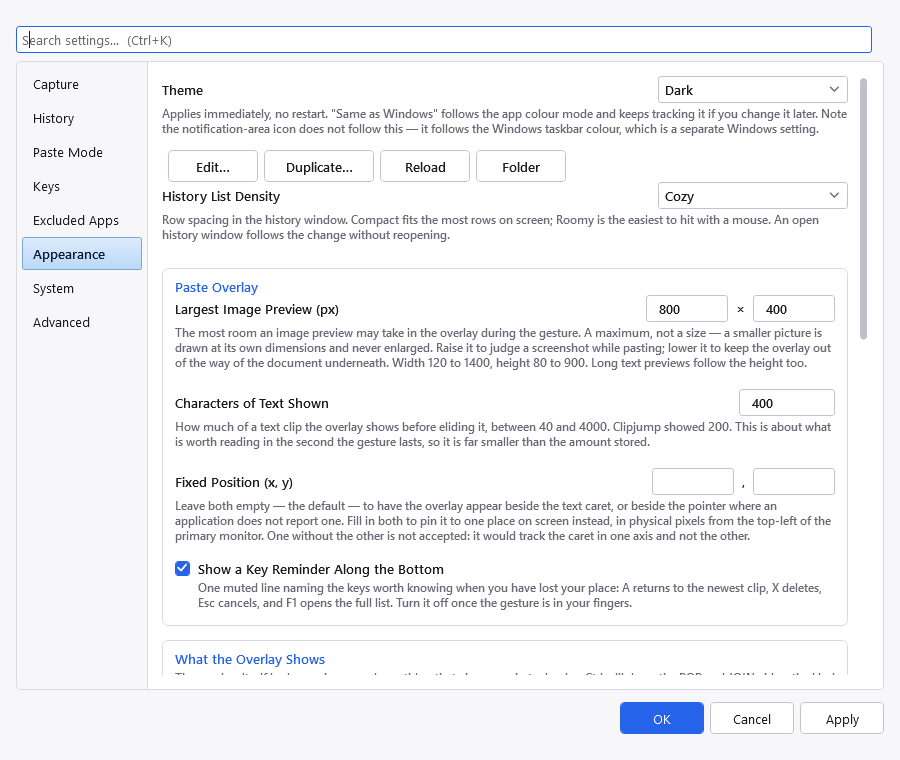
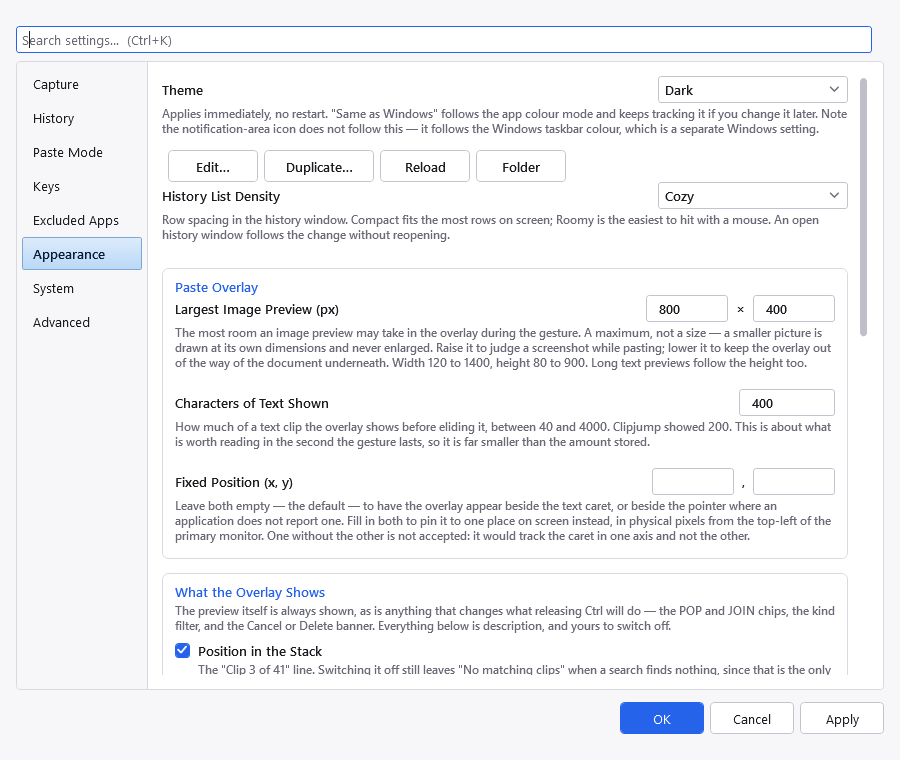
Put the key reminder with the rest of the overlay switches
Reported as a missing toggle. It was not missing - it had been in the Paste Overlay
group since long before there was anywhere better - but once seven switches existed
under "What the Overlay Shows", its absence from that list read as a gap rather than as
one filed elsewhere. It is the eighth part of the same OverlayParts value, so it now
sits with the others, last, where the footer it governs is.

Its help line says what it actually does now: it names the keys you have bound rather
than the defaults, and leaves out any action you have switched off - both true before
and stated nowhere.

Changed region(s): [[0.1867, 0.7263, 0.9333, 0.9079]]

diff --git a/src/PasteJump.App/Views/SettingsWindow.xaml b/src/PasteJump.App/Views/SettingsWindow.xaml
@@ -790,9 +790,6 @@
                         <TextBlock Style="{StaticResource SettingHelp}"
                                    Text="Leave both empty — the default — to have the overlay appear beside the text caret, or beside the pointer where an application does not report one. Fill in both to pin it to one place on screen instead, in physical pixels from the top-left of the primary monitor. One without the other is not accepted: it would track the caret in one axis and not the other." />
 
-                        <CheckBox x:Name="ShowKeyHintCheck" Content="Show a Key Reminder Along the Bottom" />
-                        <TextBlock Style="{StaticResource CheckHelp}"
-                                   Text="One muted line naming the keys worth knowing when you have lost your place: A returns to the newest clip, X deletes, Esc cancels, and F1 opens the full list. Turn it off once the gesture is in your fingers." />
                         </StackPanel>
                         </Border>
 
@@ -835,6 +832,16 @@
                         <CheckBox x:Name="ShowPinnedCheck" Content="The PINNED Marker" Margin="0,7,0,0" />
                         <TextBlock Style="{StaticResource CheckHelp}"
                                    Text="Pinning itself is unaffected — this only hides the marker. A pinned clip still sorts first and still survives Delete All." />
+
+                        <!--
+                            The key reminder sat in the Paste Overlay group above, which was where it had always
+                            been - and once the other seven switches existed here, its absence from this list read as
+                            a missing switch rather than as one filed elsewhere. It is the eighth part of the same
+                            OverlayParts value, so this is where it belongs.
+                        -->
+                        <CheckBox x:Name="ShowKeyHintCheck" Content="The Key Reminder Along the Bottom" Margin="0,7,0,0" />
+                        <TextBlock Style="{StaticResource CheckHelp}"
+                                   Text="One muted line naming the keys worth knowing when you have lost your place — A returns to the newest clip, Del deletes, J joins, Esc cancels, F1 opens the full list. It names the keys you have actually bound, and leaves out any action you have switched off. Turn it off once the gesture is in your fingers." />
                         </StackPanel>
                         </Border>
 
